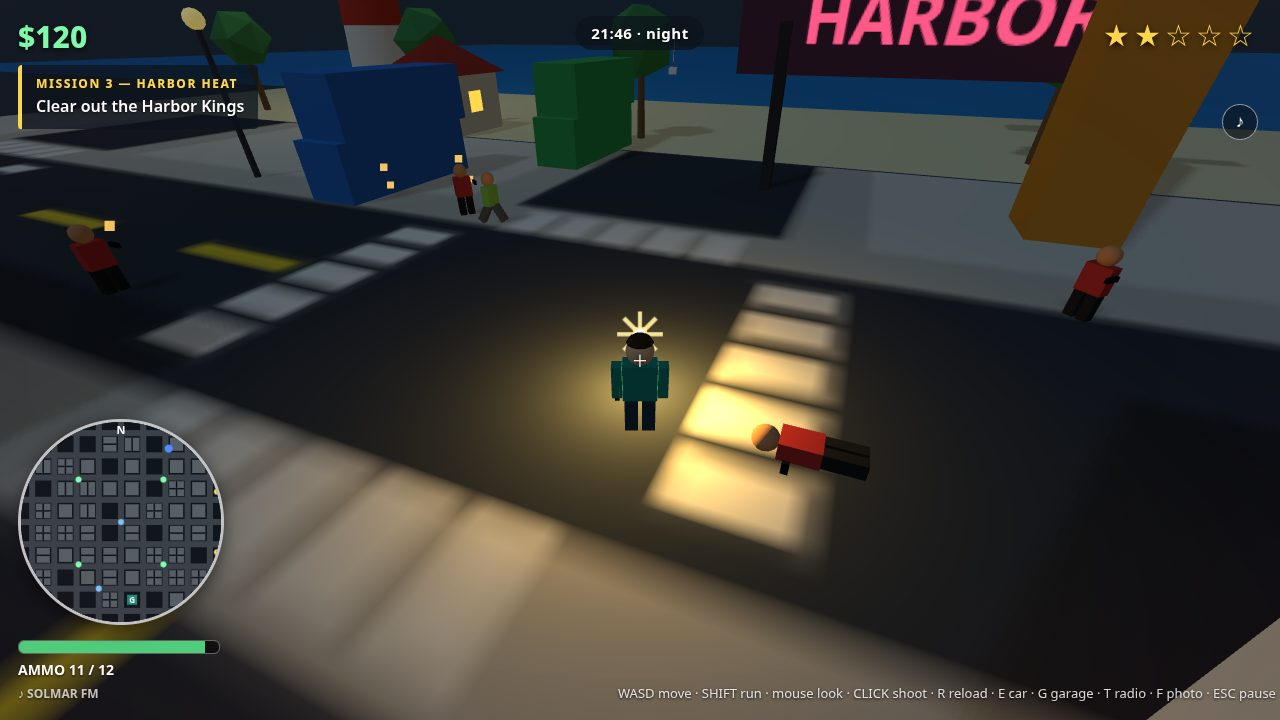
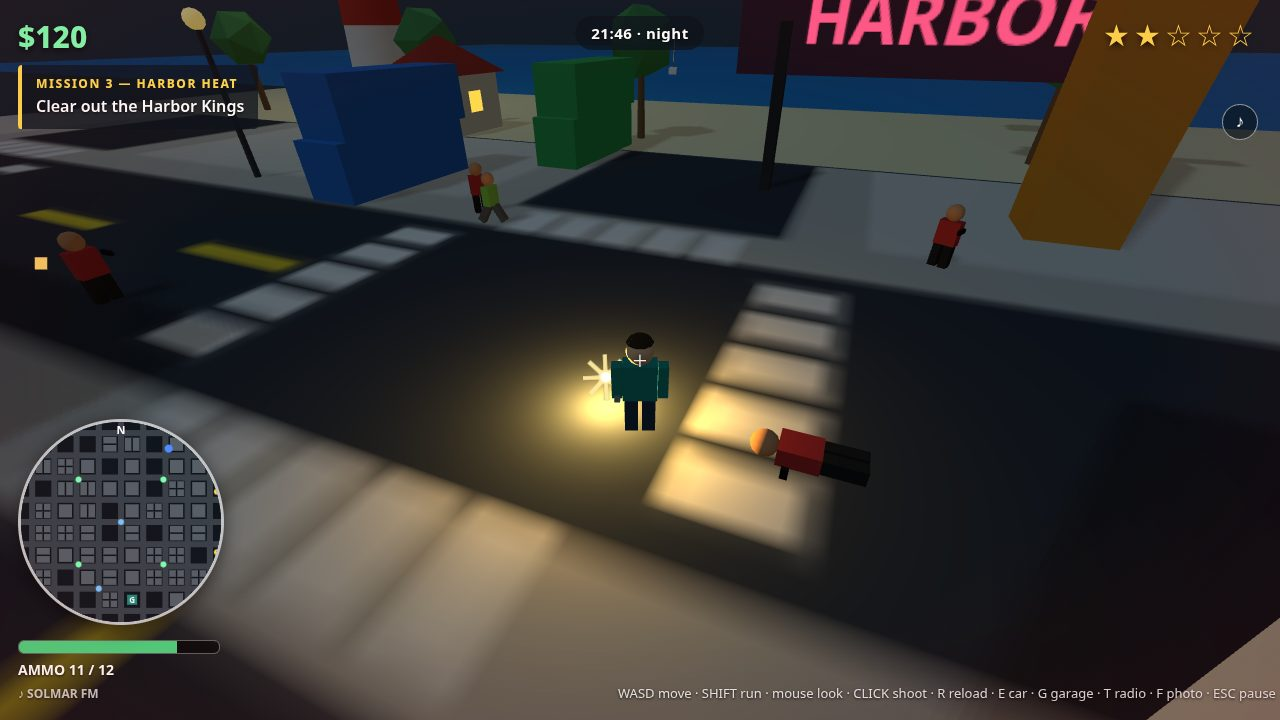
loopdesign iter-9: muzzle flash to the gun hand + visible pistol
- firePistol muzzle: chest-centre (y 1.5, 1.1 forward) -> gun tip
  (right 0.7, forward 0.6, y 0.78); the head-height flash read as a
  cartoon star above Mara's head, the hand-height flash reads as gunfire
- player pistol: 0.09x0.14x0.42 near-black -> 0.11x0.16x0.5 gunmetal
  grey so the weapon is actually visible at night
- combat shot re-staged (73,397 B); dossier ~163,521/163,840

diff --git a/game/src/combat.js b/game/src/combat.js
@@ -136,9 +136,9 @@ export function firePistol(world) {
   combat.ammo -= 1;
   combat.cooldown = 0.22;
   const muzzle = playerPosition(player).clone();
-  muzzle.x += Math.sin(player.heading) * 1.1;
-  muzzle.z += Math.cos(player.heading) * 1.1;
-  muzzle.y = 1.5;
+  muzzle.x += Math.sin(player.heading) * 0.6 + Math.cos(player.heading) * 0.7;
+  muzzle.z += Math.cos(player.heading) * 0.6 - Math.sin(player.heading) * 0.7;
+  muzzle.y = 0.78;
   showFlash(combat, muzzle, 120, 0.09, world.camera);
   world.audio.shot();
   world.effects.burst(muzzle, 0xffcc66, 6, 4);

diff --git a/game/src/player.js b/game/src/player.js
@@ -32,7 +32,7 @@ function makePlayerMesh() {
   armL.position.set(-0.44, 1.5, 0);
   const armR = new THREE.Mesh(armGeometry, jacket);
   armR.position.set(0.44, 1.5, 0);
-  const gun = new THREE.Mesh(new THREE.BoxGeometry(0.09, 0.14, 0.42), new THREE.MeshLambertMaterial({ color: 0x222222 }));
+  const gun = new THREE.Mesh(new THREE.BoxGeometry(0.11, 0.16, 0.5), new THREE.MeshLambertMaterial({ color: 0x8a8f98 }));
   gun.position.set(0, -0.72, 0.12);
   armR.add(gun);
   group.add(torso, head, cap, legL, legR, armL, armR);
